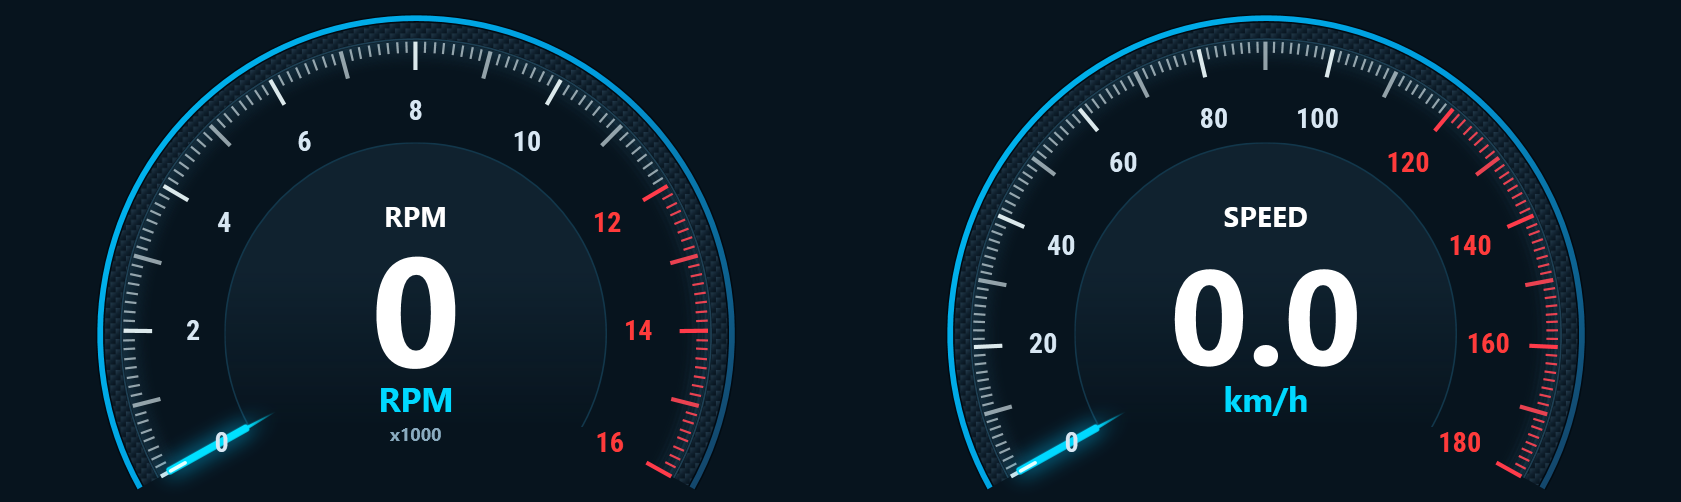
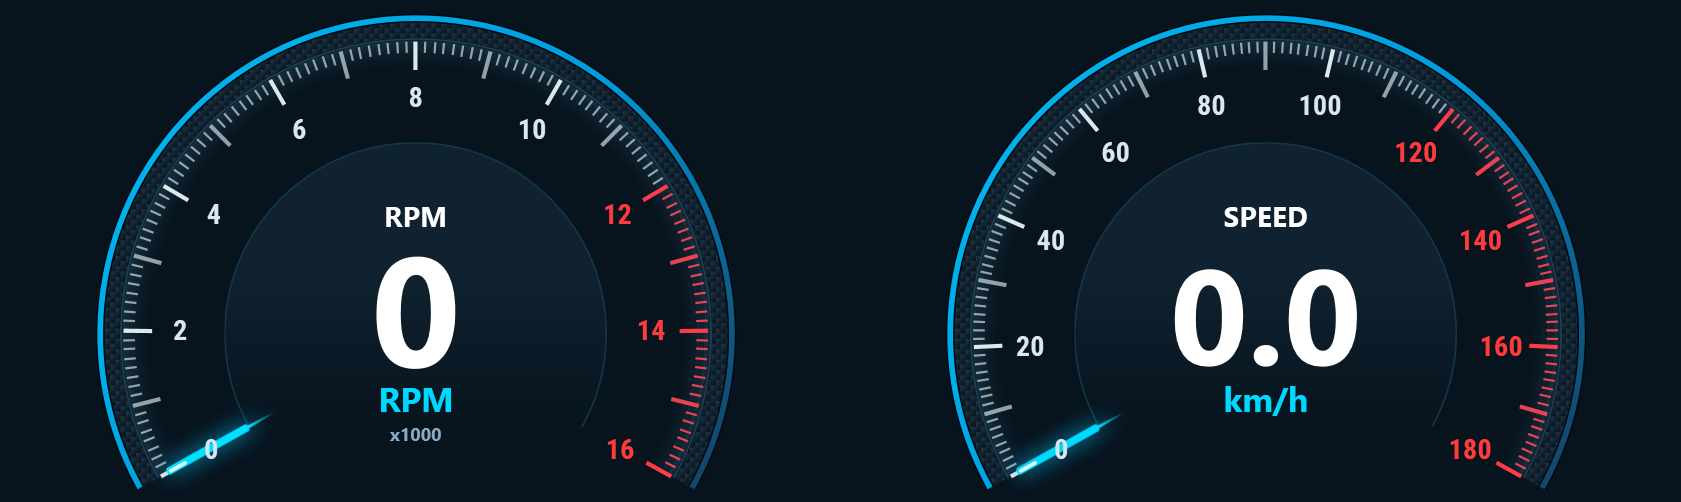
Show 16000 RPM fit and scale numbers closer to tick marks

diff --git a/previews/v135/README.md b/previews/v135/README.md
@@ -9,3 +9,5 @@ Số chia được căn theo tâm nét chữ, cùng bán kính và thẳng với
 Dải theo kim phủ mờ toàn khoảng giữa vòng trong và mép trong vòng ngoài, từ đúng mốc 0, đầu cắt thẳng, không viền đậm.
 
 Nền caro nổi nhẹ xanh đen chỉ nằm trong khe giữa đường viền vạch chia và mép trong vòng ngoài.
+
+Số chia sát vạch hơn; số đo được tự căn theo đường tròn, đã kiểm tra qua 20.000 RPM và có ảnh thực tế 16.000 RPM.
